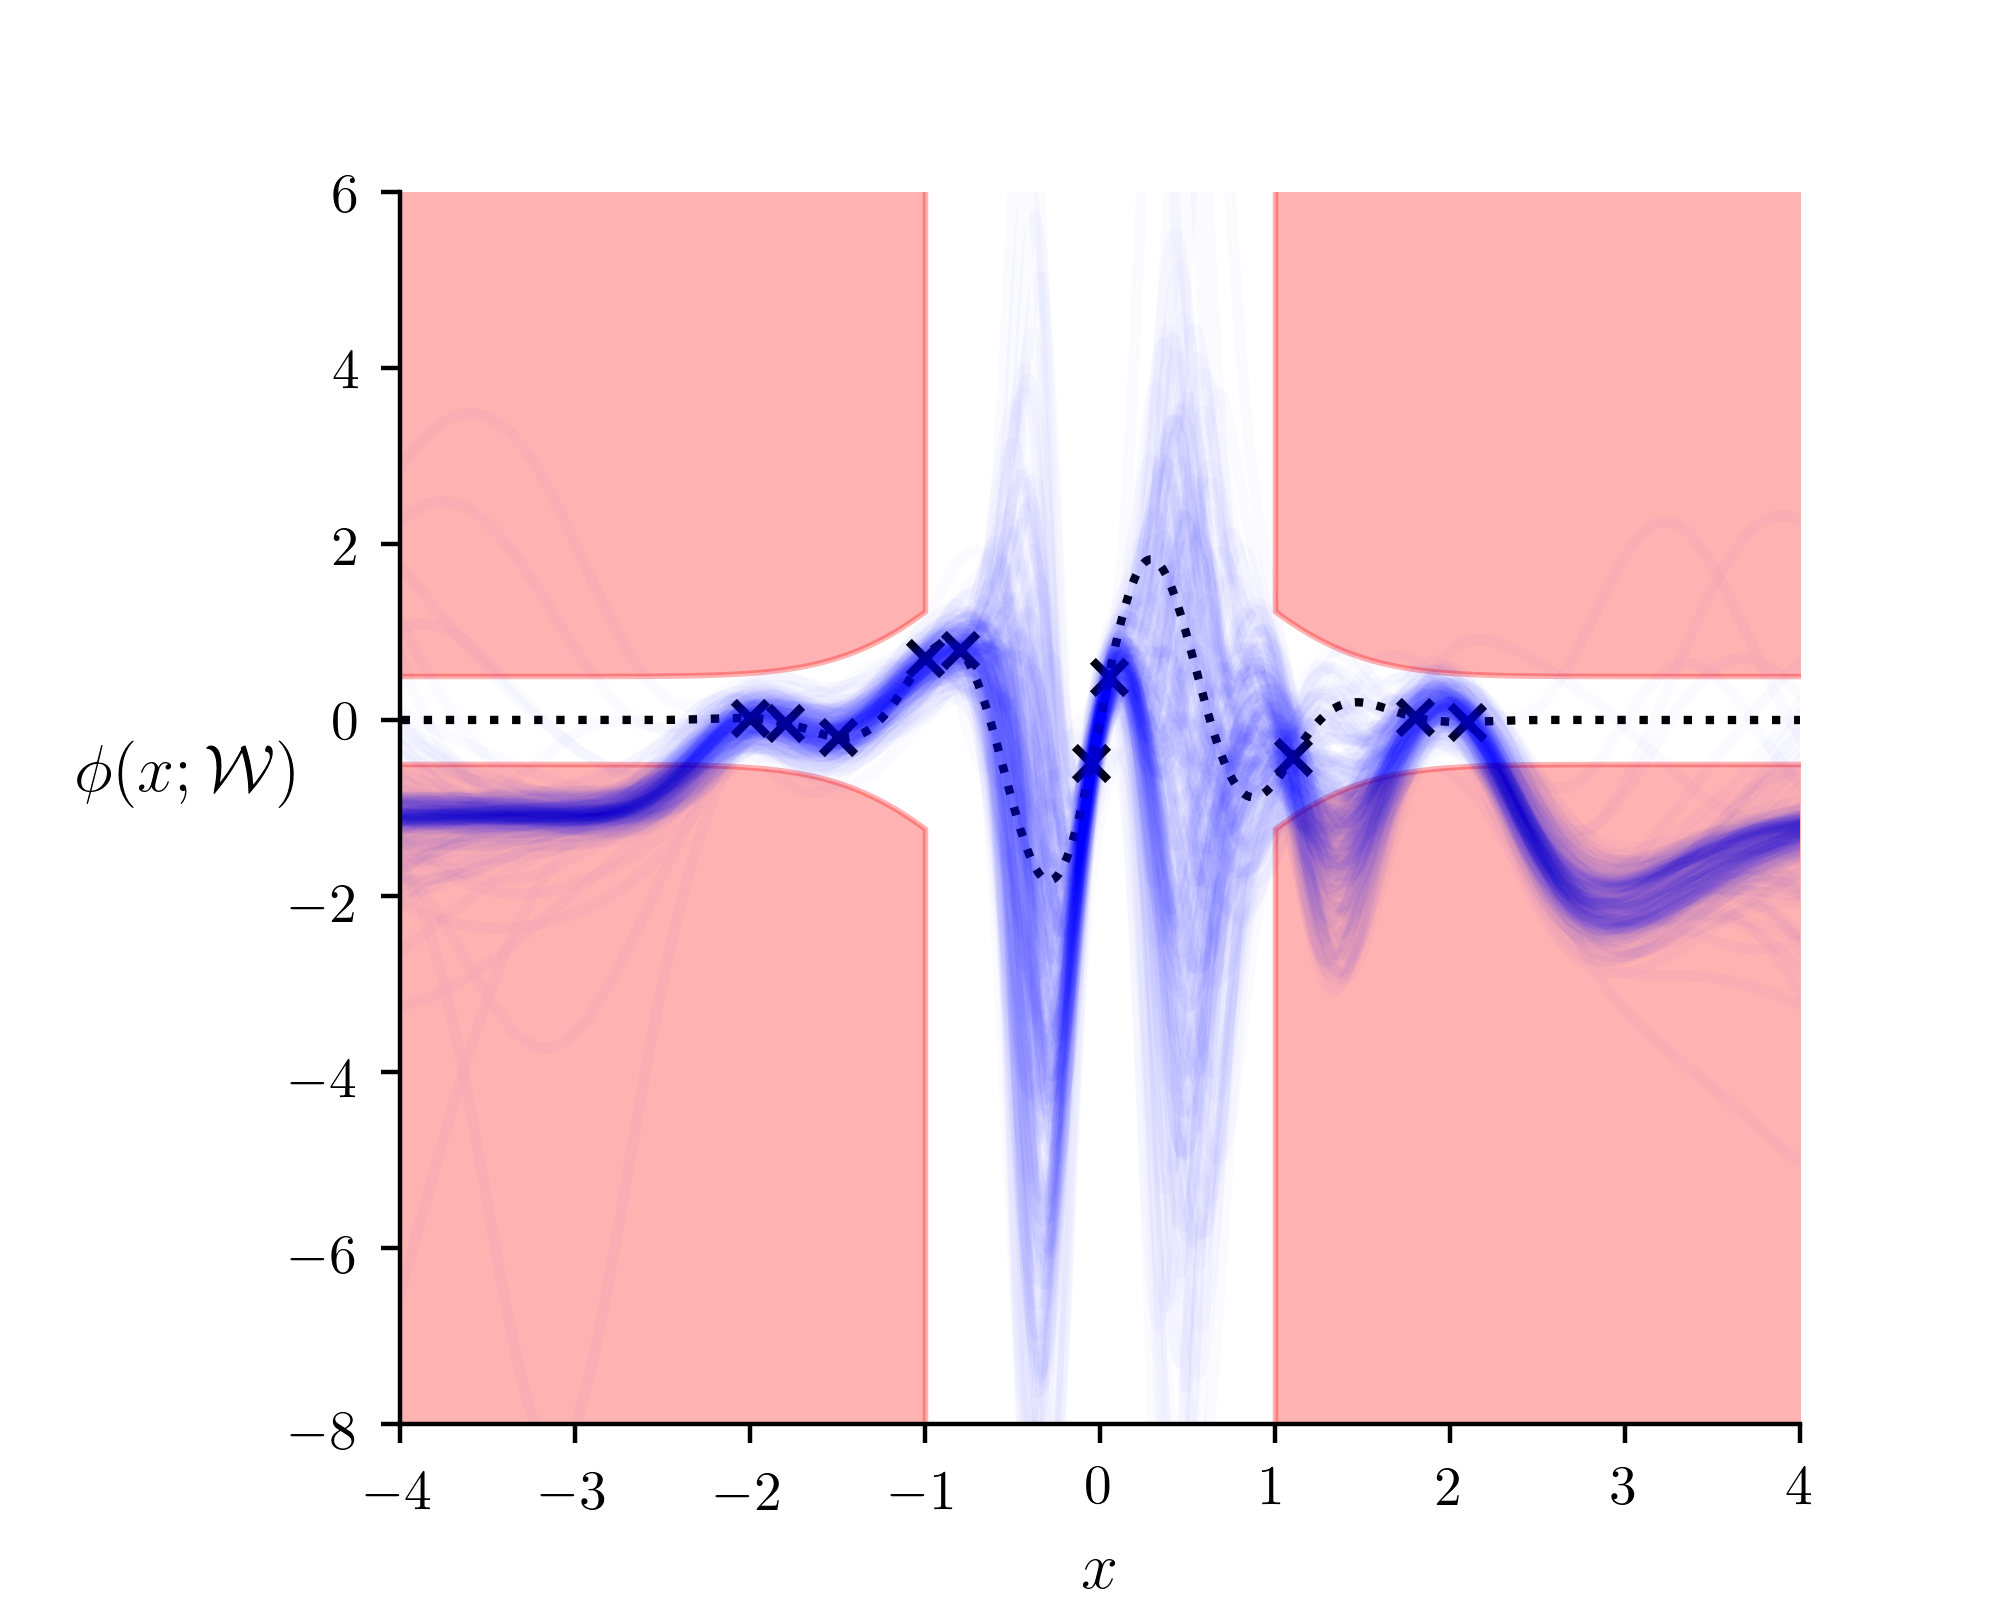
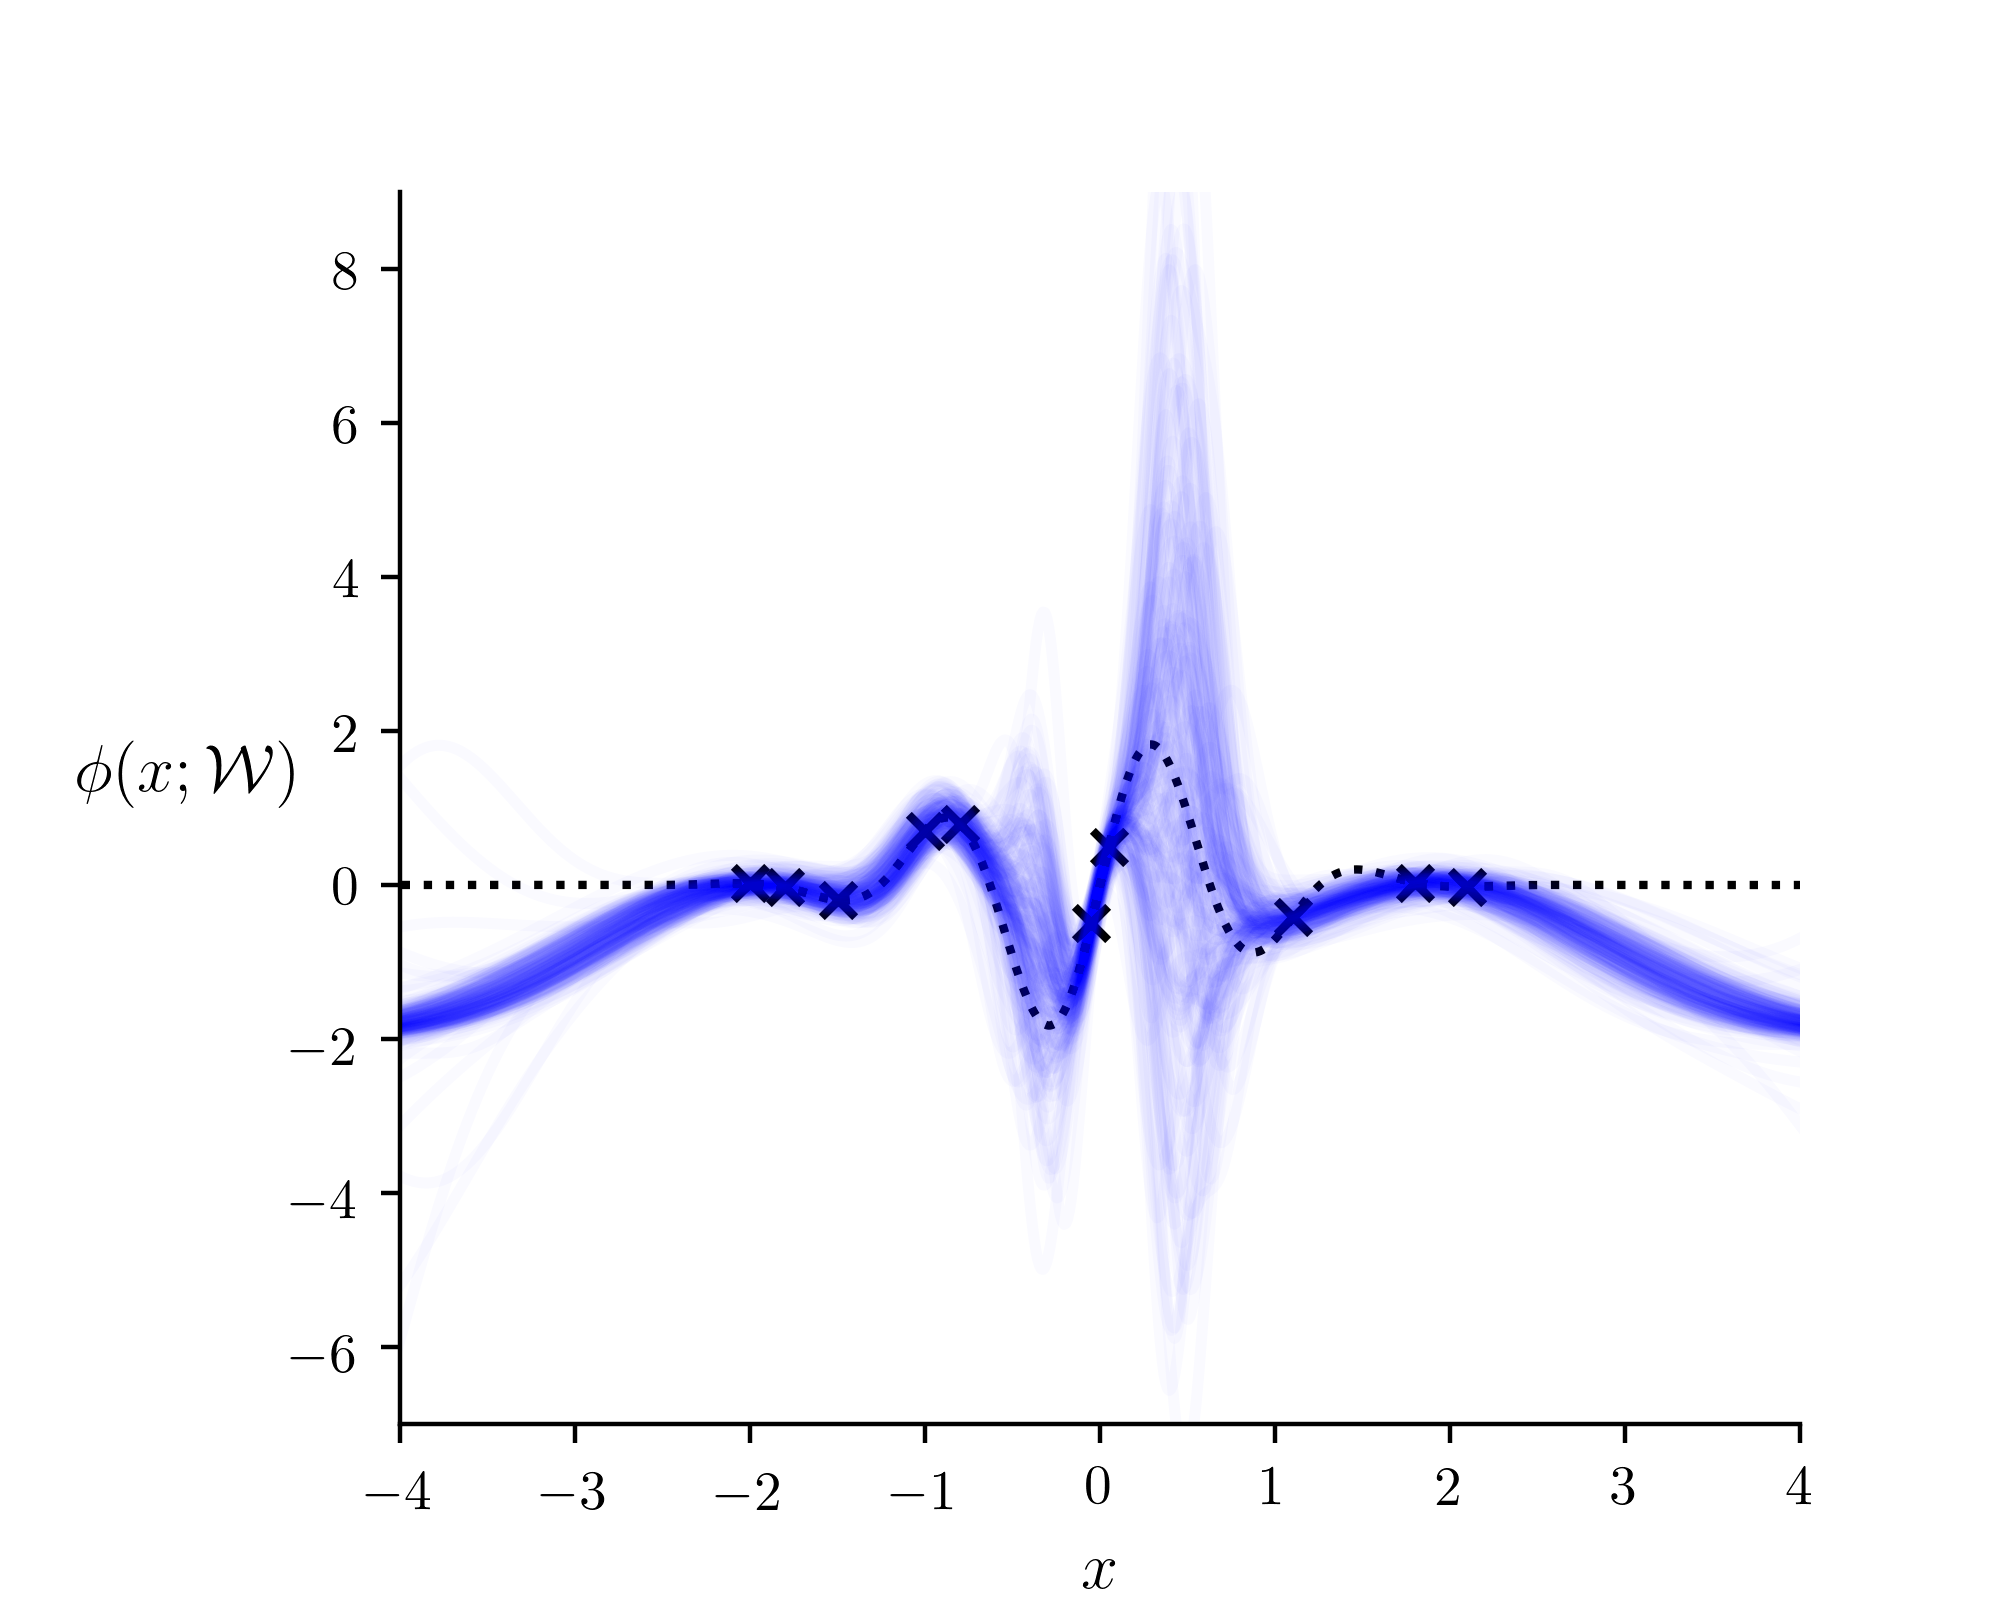
variational inference analysis metrics printing out and starting to fill asymptotic table

diff --git a/exp_thesis_4_1b.py b/exp_thesis_4_1b.py
@@ -104,10 +104,84 @@ def constrained_region_sampler_4_4(s):
 
 exp['title'] = 'fig_4_4'
 exp['vi']['load_saved'] = True
-exp['vi']['load_from'] = 'fig_4_4_v3'
+exp['vi']['load_from'] = 'fig_4_4_v8'
 
 
-exp['data']['plt_y_domain'] = (-9.0, 6.0)
+exp['data']['plt_y_domain'] = (-7.0, 9.0)
+exp['vi']['run_constrained'] = False
+exp['nn']['architecture'] = [1, 20, 1]
+
+
+exp['constraints']['constr'] = constr_4_4
+exp['constraints']['plot_patch'] = []
+exp['constraints']['plot_between'] = []
+exp['vi']['constrained']['constrained_region_sampler'] = constrained_region_sampler_4_4
+exp['data']['integral_constrained_input_region'] = 10
+
+exp['vi']['bbb_param']['initialize_q']['mean'] = 3.0  # * torch.randn
+exp['vi']['bbb_param']['initialize_q']['std'] = -10.0  # * torch.ones
+exp['vi']['rv_samples'] = 1
+exp['vi']['lr'] = 0.005
+exp['vi']['regular'] =  {
+    'iterations': 30000,
+    'restarts': 1,
+    'reporting_every_': 500,
+    'cores_used': 1,
+}
+
+
+
+# main_vi([exp])
+
+
+# constrained
+
+exp = copy.deepcopy(f_prototype)
+
+
+exp['title'] = 'fig_4_4_constr'
+exp['vi']['load_saved'] = True
+exp['vi']['load_from'] = 'fig_4_4_constr_v0'
+
+
+exp['data']['plt_y_domain'] = (-5.0, 6.0)
+exp['vi']['run_constrained'] = True
+exp['nn']['architecture'] = [1, 20, 1]
+
+
+exp['constraints']['constr'] = constr_4_4
+exp['constraints']['plot_patch'] = []
+exp['constraints']['plot_between'] = plot_between
+exp['data']['integral_constrained_input_region'] = 10
+
+exp['vi']['bbb_param']['initialize_q']['mean'] = 3.0  # * torch.randn
+exp['vi']['bbb_param']['initialize_q']['std'] = -10.0  # * torch.ones
+exp['vi']['rv_samples'] = 1
+exp['vi']['lr'] = 0.01
+
+exp['vi']['constrained'] =  {
+    'iterations': 10000,
+    'restarts': 1,
+    'reporting_every_': 200,
+    'violation_samples': 100,
+    'tau_tuple': (15.0, 2.0),
+    'gamma': 1000,
+    'constrained_region_sampler': constrained_region_sampler_4_4,
+}
+
+main_vi([exp])
+
+
+''' ************************ Tab 4.2 asymptotic bound (VI) ************************ '''
+
+
+# 1 layer 50 nodes - standard
+exp['title'] = 'tab_4-2_1_50_no'
+exp['vi']['load_saved'] = False
+exp['vi']['load_from'] = '0 '
+
+
+exp['data']['plt_y_domain'] = (-7.0, 9.0)
 exp['vi']['run_constrained'] = False
 exp['nn']['architecture'] = [1, 50, 1]
 
@@ -122,49 +196,50 @@ exp['vi']['bbb_param']['initialize_q']['mean'] = 3.0  # * torch.randn
 exp['vi']['bbb_param']['initialize_q']['std'] = -10.0  # * torch.ones
 exp['vi']['rv_samples'] = 1
 exp['vi']['lr'] = 0.005
-exp['vi']['regular'] =  {
-    'iterations': 35000,
+exp['vi']['regular'] = {
+    'iterations': 30000,
     'restarts': 1,
     'reporting_every_': 500,
     'cores_used': 1,
 }
 
-# main_vi([exp])
+
+main_vi([exp])
 
 
 # constrained
 
-exp = copy.deepcopy(f_prototype)
+# exp = copy.deepcopy(f_prototype)
 
 
-exp['title'] = 'fig_4_4_constr'
-exp['vi']['load_saved'] = False
-exp['vi']['load_from'] = ' '
+# exp['title'] = 'fig_4_4_constr'
+# exp['vi']['load_saved'] = True
+# exp['vi']['load_from'] = 'fig_4_4_constr_v0'
 
 
-exp['data']['plt_y_domain'] = (-9.0, 6.0)
-exp['vi']['run_constrained'] = True
-exp['nn']['architecture'] = [1, 50, 1]
+# exp['data']['plt_y_domain'] = (-5.0, 6.0)
+# exp['vi']['run_constrained'] = True
+# exp['nn']['architecture'] = [1, 20, 1]
 
 
-exp['constraints']['constr'] = constr_4_4
-exp['constraints']['plot_patch'] = []
-exp['constraints']['plot_between'] = plot_between
-exp['data']['integral_constrained_input_region'] = 10
+# exp['constraints']['constr'] = constr_4_4
+# exp['constraints']['plot_patch'] = []
+# exp['constraints']['plot_between'] = plot_between
+# exp['data']['integral_constrained_input_region'] = 10
 
-exp['vi']['bbb_param']['initialize_q']['mean'] = 3.0  # * torch.randn
-exp['vi']['bbb_param']['initialize_q']['std'] = -10.0  # * torch.ones
-exp['vi']['rv_samples'] = 1
-exp['vi']['lr'] = 0.02
+# exp['vi']['bbb_param']['initialize_q']['mean'] = 3.0  # * torch.randn
+# exp['vi']['bbb_param']['initialize_q']['std'] = -10.0  # * torch.ones
+# exp['vi']['rv_samples'] = 1
+# exp['vi']['lr'] = 0.01
 
-exp['vi']['constrained'] =  {
-    'iterations': 500,
-    'restarts': 1,
-    'reporting_every_': 20,
-    'violation_samples': 5000,
-    'tau_tuple': (15.0, 2.0),
-    'gamma': 1000,
-    'constrained_region_sampler': constrained_region_sampler_4_4,
-}
+# exp['vi']['constrained'] = {
+#     'iterations': 10000,
+#     'restarts': 1,
+#     'reporting_every_': 200,
+#     'violation_samples': 100,
+#     'tau_tuple': (15.0, 2.0),
+#     'gamma': 1000,
+#     'constrained_region_sampler': constrained_region_sampler_4_4,
+# }
 
-main_vi([exp])
+# main_vi([exp])

diff --git a/exe_vi.py b/exe_vi.py
@@ -101,25 +101,6 @@ def run_experiment(experiment):
         def log_posterior(weights, iter):
             batch = batch_indices(iter)
             return log_prob(weights, X[batch], Y[batch])
-
-
-    '''Inference functions'''
-
-    '''Computes held-out log likelihood of x,y given distribution implied by param'''
-    def held_out_loglikelihood(x, y, param, sample_q):
-        ws = sample_q(S, param)
-        samples = forward(ws, x)
-        mean = samples.mean(0).squeeze()
-        std = samples.std(0).squeeze()
-        return ds.Normal(mean, std).log_prob(y).sum()
-
-    '''Compute RMSE of validation dataset given optimizated params'''
-    def compute_rmse(x, y, param, sample_q):
-        ws = sample_q(S, param)
-        samples = forward(ws, x)
-        pred = samples.mean(0) # prediction is mean
-        rmse = (pred - y).pow(2).mean(0).pow(0.5)
-        return rmse
     
     '''Computes expected violation via constraint function, of distribution implied by param'''
     def violation(param, sample_q):
@@ -203,22 +184,24 @@ def run_experiment(experiment):
                 training_evaluation['elbo'].append(elbo.detach())
                 training_evaluation['violation'].append(viol)
 
+                samples = sample_q(S, params.detach())
+
                 training_evaluation['held_out_ll_indist'].append(
-                    held_out_loglikelihood(X_v_id, Y_v_id, params.detach(), sample_q))
+                    held_out_loglikelihood(X_v_id, Y_v_id, samples, forward))
 
                 training_evaluation['held_out_ll_outofdist'].append(
-                    held_out_loglikelihood(X_v_ood, Y_v_ood, params.detach(), sample_q))
+                    held_out_loglikelihood(X_v_ood, Y_v_ood, samples, forward))
             
                 rmse_id_cache = compute_rmse(
-                    X_v_id, Y_v_id, params.detach(), sample_q)
+                    X_v_id, Y_v_id, samples, forward)
                 training_evaluation['rmse_id'].append(rmse_id_cache)
             
                 training_evaluation['rmse_ood'].append(
-                    compute_rmse(X_v_ood, Y_v_ood, params.detach(), sample_q))
+                    compute_rmse(X_v_ood, Y_v_ood, samples, forward))
 
                 # command line printing
                 str = 'Step {:7}  ---  Ave-objective: {:15}  ELBO: {:15}  Violation: {:10}    ID-RMSE {:10}'.format(
-                    t, round(ave_loss.item() / reporting_every_, 4), round(elbo.item(), 4), round(viol.item(), 4), round(rmse_id_cache.item(), 4))
+                    t, round(ave_loss.item() / reporting_every_, 4), round(elbo.item(), 4), round(viol.item(), 4), round(rmse_id_cache, 4))
                 print(str)
 
                 ave_loss = 0

diff --git a/main_hmc.py b/main_hmc.py
@@ -240,21 +240,6 @@ def main_hmc(all_experiments):
                     nonlinearity=nonlinearity,
                     num_batches=num_batches)
 
-        '''Compute RMSE of validation dataset given optimizated params'''
-        def compute_rmse(x, y, samples):
-            samples = forward(samples, x)
-            pred = samples.mean(0)  # prediction is mean
-            rmse = (pred - y).pow(2).mean(0).pow(0.5)
-            return rmse.item()
-
-        '''Computes held-out log likelihood of x,y given distribution implied by samples'''
-        def held_out_loglikelihood(x, y, samples):
-            samples = forward(samples, x)
-            mean = samples.mean(0).squeeze()
-            std = samples.std(0).squeeze()
-            return ds.Normal(mean, std).log_prob(y).sum().item()
-
-
         '''Computes expected violation via constraint function, of distribution implied by param'''
         def violation(weights):
             x = constrained_region_sampler(violation_samples)
@@ -329,8 +314,8 @@ def main_hmc(all_experiments):
         pcv = compute_posterior_predictive_violation_hmc(samples, forward, experiment)
         rmse_id = compute_rmse(X_v_id, Y_v_id, samples)
         rmse_ood = compute_rmse(X_v_ood, Y_v_ood, samples)
-        held_out_ll_id = held_out_loglikelihood(X_v_id, Y_v_id, samples)
-        held_out_ll_ood = held_out_loglikelihood(X_v_ood, Y_v_ood, samples)
+        held_out_ll_id = held_out_loglikelihood(X_v_id, Y_v_id, samples, forward)
+        held_out_ll_ood = held_out_loglikelihood(X_v_ood, Y_v_ood, samples, forward)
 
         print('PCV: {}\nHeld-out LogLik ID: {}\nRMSE ID: {}\nHeld-out LogLik OOD: {}\nRMSE OOD: {}'.format(
             pcv, held_out_ll_id, rmse_id, held_out_ll_ood, rmse_ood))

diff --git a/main_vi.py b/main_vi.py
@@ -94,7 +94,7 @@ def main_vi(all_experiments):
         
 
         # compute posterior predictive violation
-        violations = compute_posterior_predictive_violation_vi(
+        pcvs = compute_posterior_predictive_violation_vi(
             params, forward, sample_q, experiment)
 
         '''Plotting'''
@@ -109,6 +109,21 @@ def main_vi(all_experiments):
         for j in range(len(params)):
             plot_posterior_predictive(
                 samples, forward, experiment, current_directory, method='vi', j=j)
+
+        '''Print table info to out'''
+        X_v_id = experiment['data']['X_v_id']
+        Y_v_id = experiment['data']['Y_v_id']
+        X_v_ood = experiment['data']['X_v_ood']
+        Y_v_ood = experiment['data']['Y_v_ood']
+
+        rmse_id = compute_rmse(X_v_id, Y_v_id, samples, forward)
+        rmse_ood = compute_rmse(X_v_ood, Y_v_ood, samples, forward)
+        held_out_ll_id = held_out_loglikelihood(X_v_id, Y_v_id, samples, forward)
+        held_out_ll_ood = held_out_loglikelihood(X_v_ood, Y_v_ood, samples, forward)
+
+        print('PCV: {}\nHeld-out LogLik ID: {}\nRMSE ID: {}\nHeld-out LogLik OOD: {}\nRMSE OOD: {}'.format(
+            pcvs[best], held_out_ll_id, rmse_id, held_out_ll_ood, rmse_ood))
+
 
         '''Log results'''
         # training evaluations

diff --git a/plot.py b/plot.py
@@ -13,6 +13,23 @@ from utils import *
 dpi = 400
 
 
+'''Analysis functions'''
+
+'''Compute RMSE of validation dataset given optimizated params'''
+def compute_rmse(x, y, samples, forward):
+    samples = forward(samples, x)
+    pred = samples.mean(0)  # prediction is mean
+    rmse = (pred - y).pow(2).mean(0).pow(0.5)
+    return rmse.item()
+
+'''Computes held-out log likelihood of x,y given distribution implied by samples'''
+def held_out_loglikelihood(x, y, samples, forward):
+    samples = forward(samples, x)
+    mean = samples.mean(0).squeeze()
+    std = samples.std(0).squeeze()
+    return ds.Normal(mean, std).log_prob(y).sum().item()
+
+    
 '''
 Classes for plotting constrained regions
 '''
